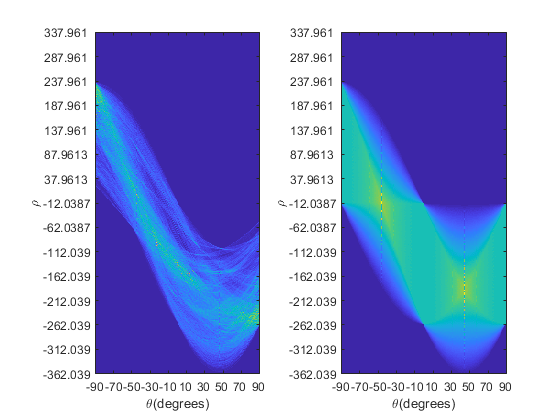
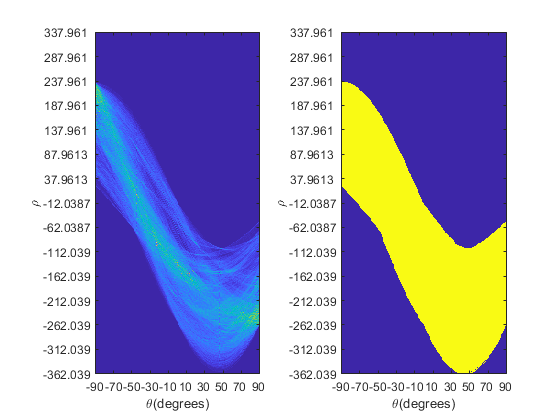
rango correcto, el problema es como vota

Changed region(s): [[0.6071, 0.1857, 0.9107, 0.8976]]

diff --git a/Lab4/Assignment2/myhough.m b/Lab4/Assignment2/myhough.m
@@ -1,20 +1,31 @@
 function H = myhough(edge_map)
-
-[x y]=size(edge_map);
-DiagonalImage=sqrt(x^2+y^2);
-
-H = zeros(2*round(DiagonalImage)+1,180+1);
-
-for colum=1:x
-    for row=1:y
-       for theta=-89:1:91
-           r=round((colum*cosd(theta)+row*sind(theta)+DiagonalImage))+1;
-           if r < size(H,1)
-               H(r,round(theta+90))=H(r,round(theta+90))+1;
-           end
-       end
-    end    
+figure;
+imshow(edge_map);
+[row, column] = find(edge_map); %foreground in an edge map corresponds to edges
+calculations = zeros(size(row,1),180);
+for theta = -89:90
+    calculations(:,theta+90) = round((column.*cosd(theta)+row.*sind(theta)));
 end
+pmax = max(calculations,[],'all'); %max ro
+H = zeros(pmax*2,180);
+for degree = 1:180
+    H(calculations(:,degree)+pmax,degree) = H(calculations(:,degree)+pmax,degree) +1;
+end
+% [x y]=size(edge_map);
+% DiagonalImage=sqrt(x^2+y^2);
+% 
+% H = zeros(2*round(DiagonalImage)+1,180+1);
+% 
+% for colum=1:x
+%     for row=1:y
+%        for theta=-89:1:91
+%            r=round((colum*cosd(theta)+row*sind(theta)+DiagonalImage))+1;
+%            if r < size(H,1)
+%                H(r,round(theta+90))=H(r,round(theta+90))+1;
+%            end
+%        end
+%     end    
+% end
 
 
 end
